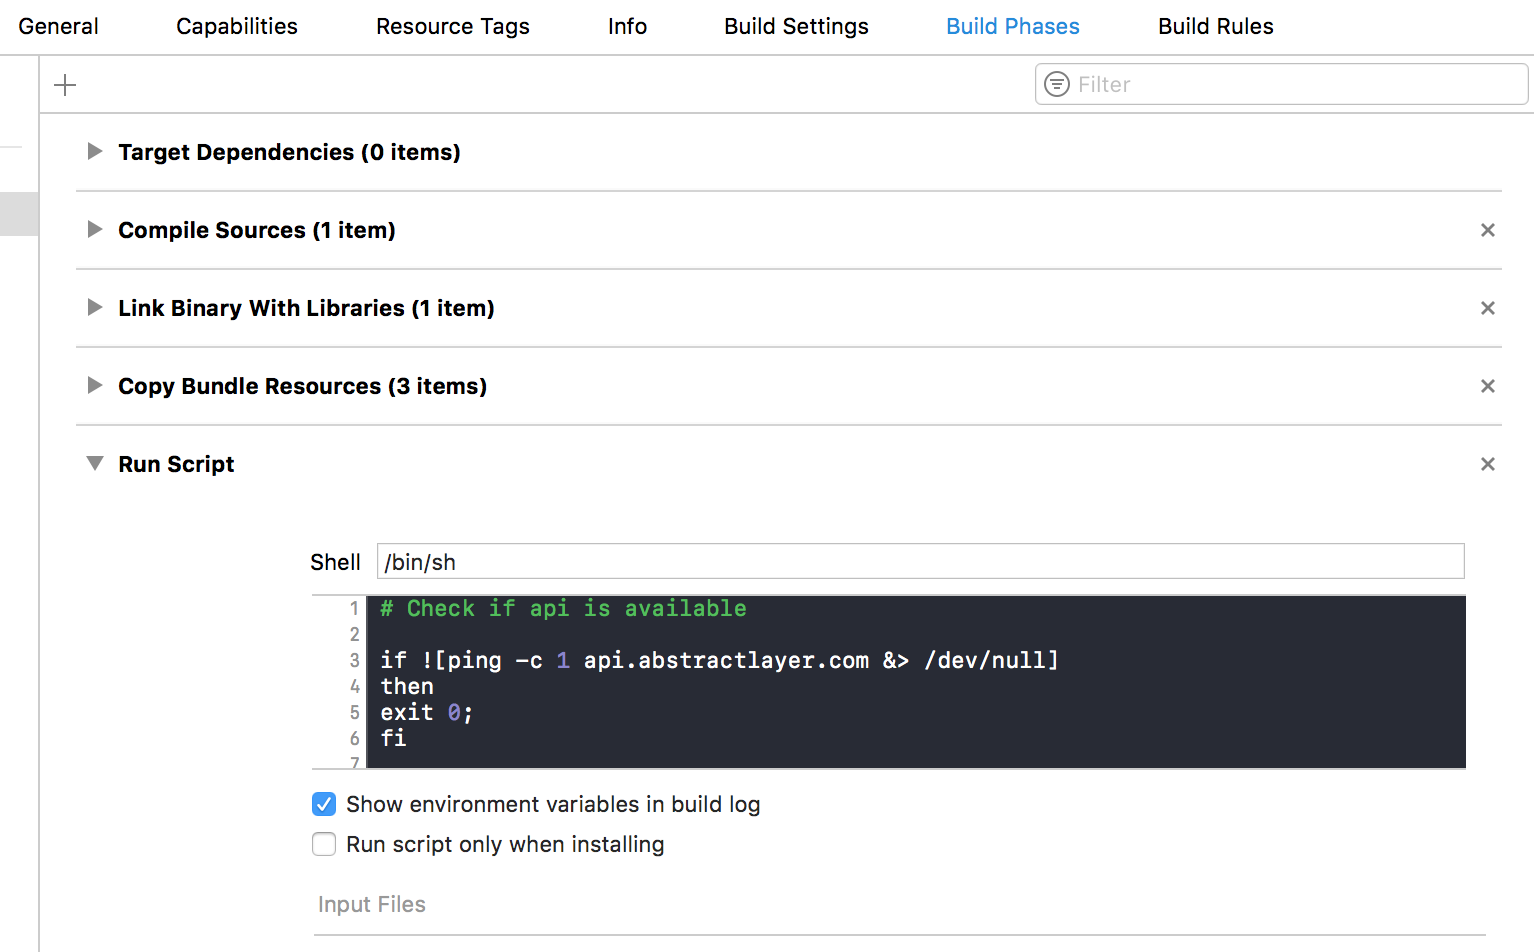
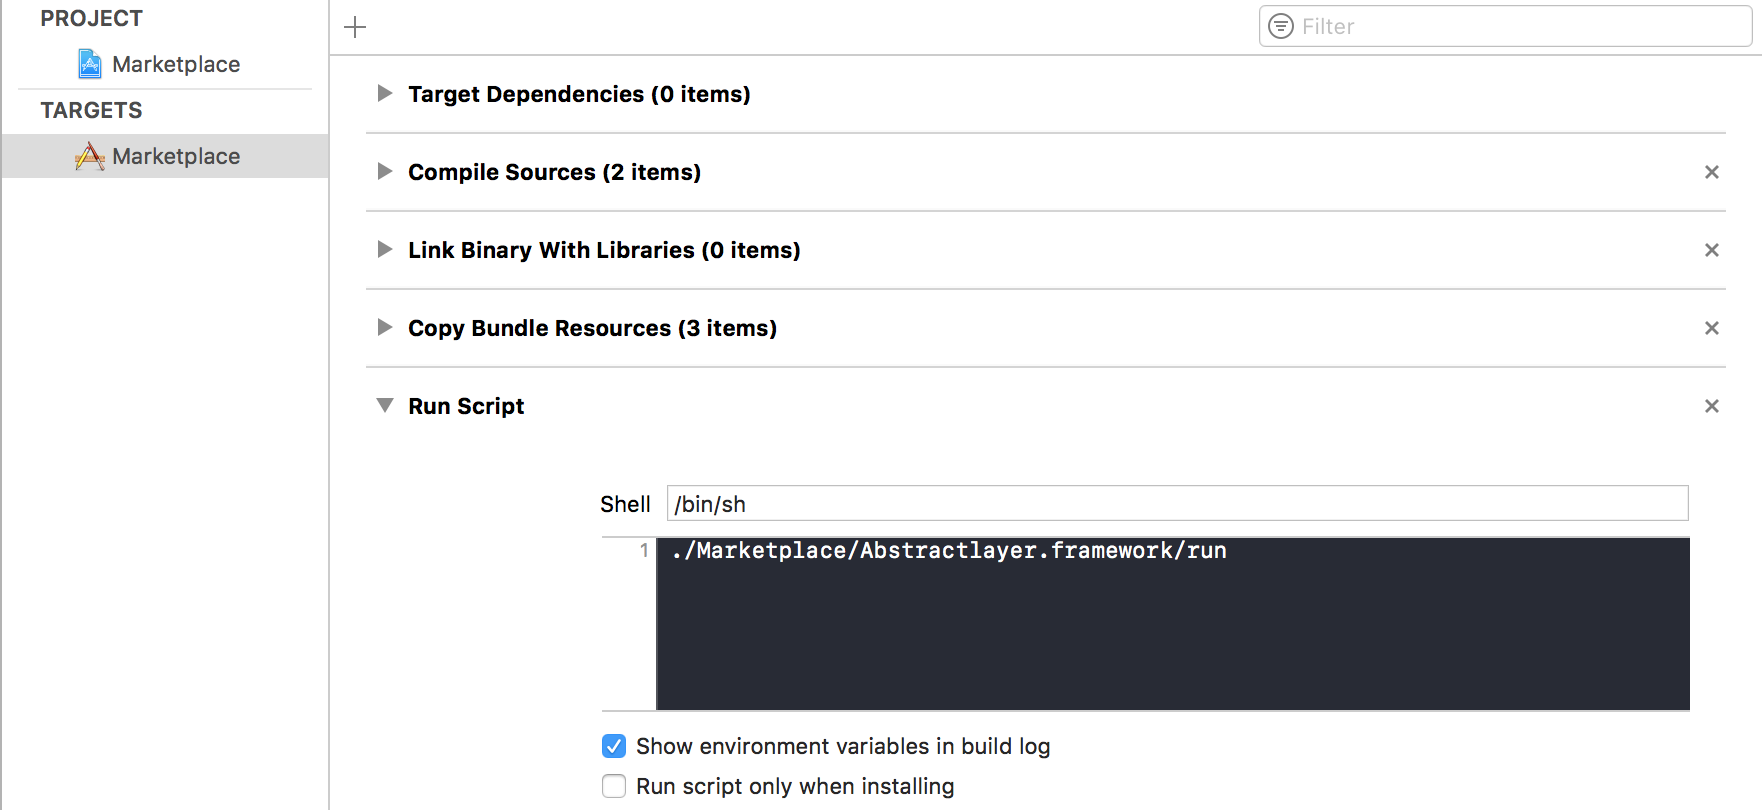
Add activate license part

diff --git a/menu/getting-started/README.md b/menu/getting-started/README.md
@@ -24,27 +24,6 @@
 
 <img width="600" alt="Xcode" src="../../menu/getting-started/attachments/quick-start-embedded.png">
 
-### License key
-
-> If you're using a trial key, check the [Trial key section](#/trial-key)
-
-#### Activating your license:
-
-* Download AbstractPro Manager and log in using the email and activation key you received via email
-
-* The license status will change to "ACTIVE"
-
-<img width="600" alt="Xcode" src="../../menu/getting-started/attachments/quick-start-software.png">
-
-* Go to you Xcode project, and navigate to `Build Phases`
-
-* Tap on `+` then `Add Run Script` and ad the following line:
-
-**./ProjectName/Abstractlayer.framework/run**
-
-<img width="600" alt="Xcode" src="../../menu/getting-started/attachments/quick-start-run-script.png">
-
-* Build the project, and you're good to go
 
 ### Trial key
 > To get your free trial license key, email us at <a href="mailto:support@abstractlayer.com?Subject=Free%20Trial%20Key%20Request" target="_top">support@asbtractlayer.com</a>

diff --git a/menu/getting-started/activate-license.md b/menu/getting-started/activate-license.md
@@ -1,0 +1,22 @@
+# Activate your license
+
+* <a href="https://github.com/DaniArnaout/DaniArnaout.github.io/raw/master/software/AbstractPro_1.0.dmg">Download AbstractPro Manager</a>
+
+* Log in using the **email** and **activation key** you received via email
+
+<img width="600" alt="Xcode" src="../../menu/getting-started/attachments/quick-start-software.png">
+
+* Go to you Xcode project, and navigate to `Build Phases`
+
+* Tap on `+` then `Add Run Script` and add the following line:
+
+**./ProjectName/Abstractlayer.framework/run**
+
+<img width="600" alt="Xcode" src="../../menu/getting-started/attachments/quick-start-run-script.png">
+
+* Build the project, and you're good to go
+
+### Where to go next?
+You're all set, check these examples:
+* [Table View](/menu/table-view/) 
+* [Collection View](/menu/collection-view/)

diff --git a/README.md b/README.md
@@ -24,6 +24,8 @@
 
 <img width="600" alt="Xcode" src="../../menu/getting-started/attachments/quick-start-embedded.png">
 
+### Activate your purchased license
+<b style="color:red;">Only</b> if you have **purchased** a license, [activate it here](/menu/getting-started/activate-license), otherwise proceed with the tutorial.
 
 ### Trial key
 > To get your free trial license key, email us at <a href="mailto:support@abstractlayer.com?Subject=Free%20Trial%20Key%20Request" target="_top">support@asbtractlayer.com</a>
